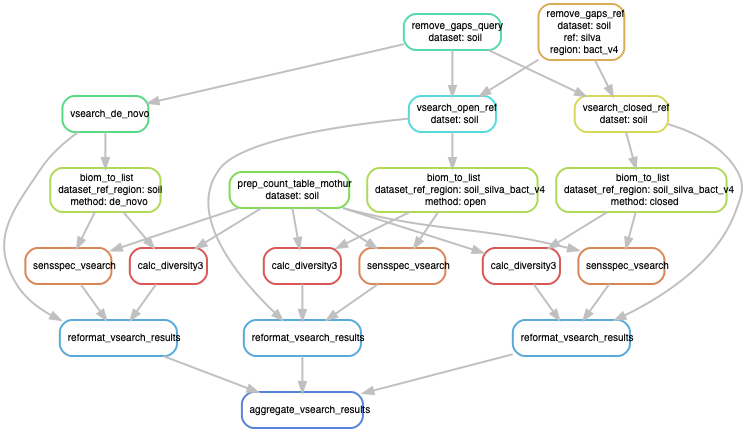
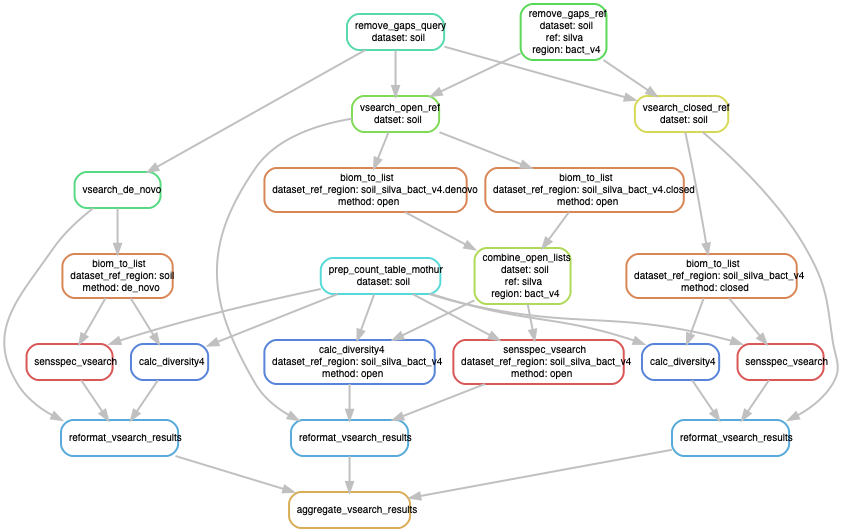
Write rule to combine two mothur lists from open-ref vsearch

diff --git a/subworkflows/4_vsearch/code/combine_open_lists.py b/subworkflows/4_vsearch/code/combine_open_lists.py
@@ -1,0 +1,41 @@
+""" Combine two mothur list files into one with renamed OTUs """
+
+def main():
+    mlist = mothurList.from_list_file(snakemake.input.l1)
+    mlist.combine(mothurList.from_list_file(snakemake.input.l2))
+    mlist.write(snakemake.output.list)
+
+class mothurList:
+    def __init__(label, otu_assigns):
+        self.label = label
+        self.otu_assigns = otu_assigns
+
+    @classmethod
+    def from_list_file(cls, list_filename):
+        with open(list_filename, 'r') as listfile:
+            next(listfile) # don't need header line
+            line = next(listfile).split()
+            label = line[0]
+            otu_assigns = line[2:]
+        return cls(label, otu_assigns)
+
+    @property
+    def num_otus(self):
+        return len(self.otu_assigns)
+
+    @property
+    def get_new_otu_names(self):
+        return ['OTU_' + str(i) for i in range(1, self.num_otus + 1)]
+
+    def combine(self, other):
+        assert other.__class__ == self.__class__
+        assert self.label == other.label
+        self.otu_assigns += other.otu_assigns
+
+    def write(self, list_filename):
+        with open(list_filename, 'w') as listfile:
+            listfile.write('\t'.join(['label', 'numOTUs'] + self.get_new_otu_names))
+            listfile.write('\t'.join([self.label, self.num_otus] + self.otu_assigns))
+
+if __name__ == "__main__":
+    main()
